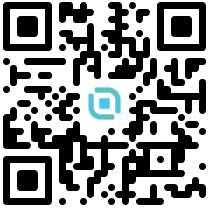
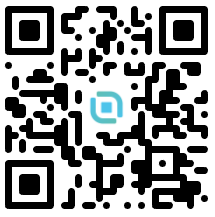
new

diff --git a/index.html b/index.html
@@ -340,7 +340,7 @@ header .avatar2 img {
   <div class="notice">
 
     <a class="avatar2"
-       href="https://livepix.gg/tapoxinha"
+       href="https://livepix.gg/michelcapela"
        target="_blank" rel="noopener"
        title="Doar via LivePix" aria-label="Pix/Doações">
       <img src="src/pix.png" alt="QR para doação via LivePix">
@@ -349,7 +349,7 @@ header .avatar2 img {
     <div class="title">
       <p>Contribua com um pix 💚</p>
 
-      <a href="https://livepix.gg/tapoxinha"
+      <a href="https://livepix.gg/michelcapela"
          target="_blank" rel="noopener"
          class="livepix-link">
         Mande sua mensagem na live
